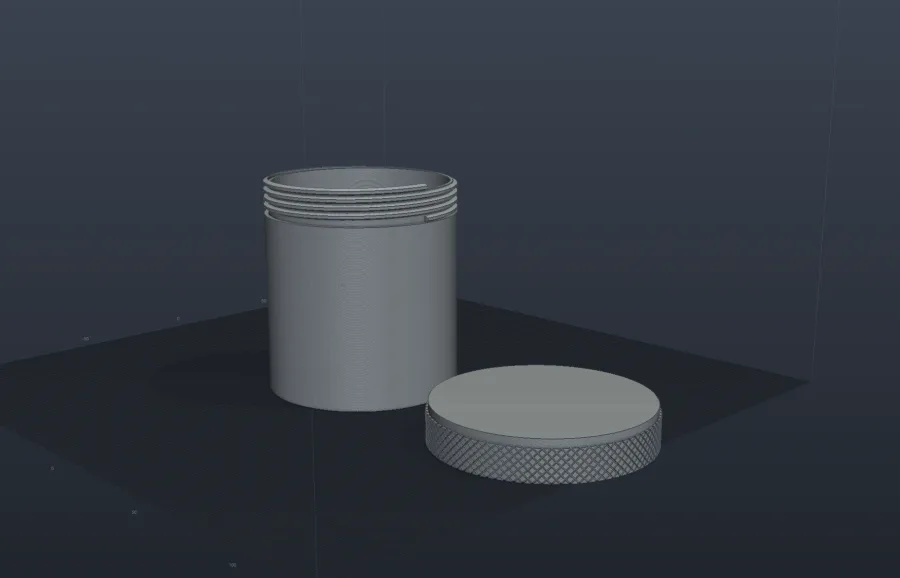
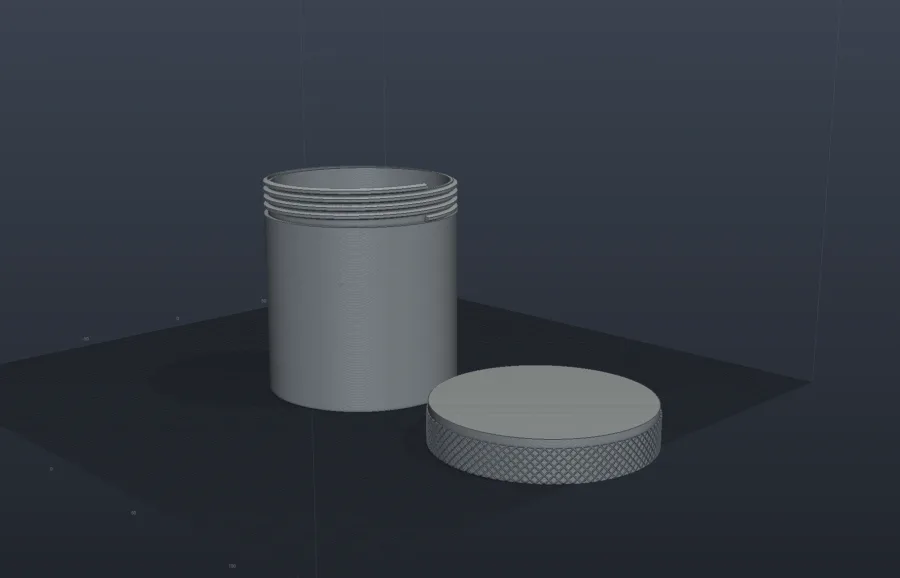
Die Formel stimmte für ein Material und verfehlte das andere
Der Wächter über den Galerieteilen prüft, was Volumen und Wasserdichtheit
nicht verraten: Zerfällt ein gezeigter Körper, wenn jemand am Parameter dreht?
Er hat sofort zwei Dinge gefunden, und das erste war meine Reparatur von
vorhin.

`=@durchmesser + 2 * @wand + 0.5` sah aus wie die Bauart und war zur Hälfte
Materialprofil. Der Deckel misst `durchmesser + 2*wand + 2*clearance`, und
`clearance` steht im Material: 0,25 bei PETG, 0,20 bei PLA. Gemessen hatte ich
mit PETG, der Wächter fährt den Standard — und dort zerfiel der Deckel in 542
Stücke. Eine Zahl aus dem Profil in einer Formel festzuschreiben ist derselbe
Fehler wie eine aus der Geometrie, nur besser getarnt: Sie stimmt an dem
Punkt, an dem sie entstand, und ist woanders leise falsch.

Das Spiel steht jetzt gar nicht mehr in der Formel. Die Rändelung wickelt eine
Winzigkeit **zu eng**, und das ist die sichere Richtung: Bei `mode="raised"`
wird vereinigt, ein Muster im Material verschmilzt, ein Muster daneben fällt
ab. Über 50 bis 120 und über beide Materialien: ein Körper.

Der zweite Fund gehört nicht mir. Das Gehäuse zerfällt unterhalb von 110 mm
Breite — fünf Stücke bei 90, drei bei 100, ab 110 einer: Seine vier
Gewindebuchsen sitzen auf festen Positionen und fallen aus der schmaler
werdenden Wand. Die Spanne im Test steht deshalb auf 110 und nicht auf 80, und
der Kommentar daneben nennt die Messung. Ein Test, der die Grenze überdeckte,
verspräche eine Parametrik, die das Teil nicht hat; gemeldet ist sie an 3a.

Changed region(s): [[0.4978, 0.7474, 0.7467, 0.8408], [0.3733, 0.3426, 0.4044, 0.3737]]

diff --git a/website/fr/index.html b/website/fr/index.html
@@ -527,7 +527,7 @@
           <figcaption><b>Boîtier électronique</b> Inserts filetés dans les coins, passe-câble, nervures de renfort — et un couvercle qui s’encliquette. Douze étapes, 79 134 triangles.</figcaption>
         </figure>
         <figure>
-          <img src="../bilder/galerie-schraubdose.webp?v=ede13524" width="900" height="578" loading="lazy"
+          <img src="../bilder/galerie-schraubdose.webp?v=b4b58f39" width="900" height="578" loading="lazy"
                alt="Un pot cylindrique avec un filetage extérieur imprimé sur le col et, à côté, le couvercle vissant à bord moleté">
           <figcaption><b>Pot à couvercle vissant</b> Le filetage du col et celui du couvercle viennent du même pas, et le jeu entre les deux du profil de matériau. Vous posez le couvercle&nbsp;: il tient.</figcaption>
         </figure>

diff --git a/website/it/index.html b/website/it/index.html
@@ -524,7 +524,7 @@
           <figcaption><b>Custodia per elettronica</b> Boccole filettate negli angoli, passacavo, nervature di rinforzo — e un coperchio che scatta in sede. Dodici passi, 79 134 triangoli.</figcaption>
         </figure>
         <figure>
-          <img src="../bilder/galerie-schraubdose.webp?v=ede13524" width="900" height="578" loading="lazy"
+          <img src="../bilder/galerie-schraubdose.webp?v=b4b58f39" width="900" height="578" loading="lazy"
                alt="Un barattolo cilindrico con filettatura esterna stampata sul collo e, accanto, il coperchio a vite con bordo zigrinato">
           <figcaption><b>Barattolo a vite</b> La filettatura del collo e quella del coperchio nascono dallo stesso passo, il gioco fra le due dal profilo del materiale. Metti il coperchio e tiene.</figcaption>
         </figure>

diff --git a/website/en/index.html b/website/en/index.html
@@ -519,7 +519,7 @@
           <figcaption><b>Electronics enclosure</b> Threaded inserts in the corners, a cable gland, stiffening ribs — and a lid that snaps on. Twelve steps, 79,134 triangles.</figcaption>
         </figure>
         <figure>
-          <img src="../bilder/galerie-schraubdose.webp?v=ede13524" width="900" height="578" loading="lazy"
+          <img src="../bilder/galerie-schraubdose.webp?v=b4b58f39" width="900" height="578" loading="lazy"
                alt="A cylindrical storage jar with a printed external thread on its neck, the matching screw lid with a knurled rim beside it">
           <figcaption><b>Storage jar</b> The thread on the neck and the one in the lid come from the same pitch, the clearance between them from the material profile. Put the lid on and it sits.</figcaption>
         </figure>

diff --git a/website/es/index.html b/website/es/index.html
@@ -524,7 +524,7 @@
           <figcaption><b>Caja para electrónica</b> Casquillos roscados en las esquinas, pasacables, nervios de refuerzo — y una tapa que encaja a presión. Doce pasos, 79 134 triángulos.</figcaption>
         </figure>
         <figure>
-          <img src="../bilder/galerie-schraubdose.webp?v=ede13524" width="900" height="578" loading="lazy"
+          <img src="../bilder/galerie-schraubdose.webp?v=b4b58f39" width="900" height="578" loading="lazy"
                alt="Un bote cilíndrico con rosca exterior impresa en el cuello y, al lado, la tapa roscada con el borde moleteado">
           <figcaption><b>Bote con tapa roscada</b> La rosca del cuello y la de la tapa salen del mismo paso, y la holgura entre ambas del perfil de material. Pones la tapa y ajusta.</figcaption>
         </figure>

diff --git a/website/pt/index.html b/website/pt/index.html
@@ -523,7 +523,7 @@
           <figcaption><b>Caixa para eletrónica</b> Casquilhos roscados nos cantos, bucim, nervuras de reforço — e uma tampa que encaixa. Doze passos, 79 134 triângulos.</figcaption>
         </figure>
         <figure>
-          <img src="../bilder/galerie-schraubdose.webp?v=ede13524" width="900" height="578" loading="lazy"
+          <img src="../bilder/galerie-schraubdose.webp?v=b4b58f39" width="900" height="578" loading="lazy"
                alt="Um frasco cilíndrico com rosca exterior impressa no gargalo e, ao lado, a tampa roscada de bordo serrilhado">
           <figcaption><b>Frasco de tampa roscada</b> A rosca do gargalo e a da tampa saem do mesmo passo, e a folga entre as duas do perfil do material. Põe a tampa e ela assenta.</figcaption>
         </figure>

diff --git a/website/index.html b/website/index.html
@@ -529,7 +529,7 @@
           einrastet. Zwölf Schritte, 79 134 Dreiecke.</figcaption>
         </figure>
         <figure>
-          <img src="bilder/galerie-schraubdose.webp?v=ede13524" width="900" height="578" loading="lazy"
+          <img src="bilder/galerie-schraubdose.webp?v=b4b58f39" width="900" height="578" loading="lazy"
                alt="Eine zylindrische Vorratsdose mit gedrucktem Außengewinde am Hals, daneben der passende Schraubdeckel mit gerändeltem Rand">
           <figcaption><b>Vorratsdose</b> Das Gewinde am Hals und das im Deckel
           kommen aus derselben Steigung, das Spiel dazwischen aus dem

diff --git a/tests/test_website.py b/tests/test_website.py
@@ -1973,3 +1973,86 @@ def test_the_roll_holder_stays_in_one_piece_across_its_range() -> None:
                 f"{breite:.0f} mm: {objekt.name} zerfällt in {stuecke} Stücke — "
                 "eine feste Zahl wandert beim Parameterzug nicht mit"
             )
+
+
+#: Die Galerieteile und der Parameter, an dem ein Kunde zuerst dreht.
+#:
+#: Die Spanne geht über das hinaus, was auf der Seite steht: Ein Rezept aus der
+#: Börse landet in einem fremden Projekt, und dort setzt jemand den Wert von
+#: Hand. Was nur im gezeigten Punkt hält, hält nicht.
+GALERIETEILE = (
+    # **110 und nicht 80, und das ist eine Messung, keine Bequemlichkeit.**
+    # Das Gehäuse zerfällt unterhalb von 110 mm: seine vier Gewindebuchsen
+    # sitzen auf festen Positionen und fallen aus der schmaler werdenden
+    # Wand — 5 Stücke bei 90, 3 bei 100, ab 110 einer. Nach oben hält es.
+    # Die untere Grenze ist an 3a gemeldet; sie gehört zum Schaustück und
+    # nicht zu diesem Test, und ein Test, der sie überdeckte, verspräche
+    # eine Parametrik, die das Teil nicht hat.
+    ("gehaeuse", "breite", (110.0, 120.0, 200.0)),
+    ("schraubdose", "durchmesser", (50.0, 75.0, 120.0)),
+    ("lochwandhalter", "breite", (80.0, 120.0, 200.0)),
+)
+
+
+@pytest.mark.parametrize(
+    ("stem", "parameter", "werte"), GALERIETEILE, ids=[teil[0] for teil in GALERIETEILE]
+)
+def test_a_gallery_part_stays_in_one_piece_across_its_range(
+    stem: str, parameter: str, werte: tuple[float, ...]
+) -> None:
+    """Jeder gezeigte Körper bleibt **ein** Stück, über die ganze Spanne.
+
+    **Der Anlass ist der eigene Fehler.** In `schraubdose.p3d` stand
+    ``wrap_diameter`` als feste Zahl, einmal bei ⌀60 aus der Geometrie
+    abgelesen. Beim Zug auf ⌀75 wickelte die Rändelung weiter um den Zylinder
+    von gestern, traf den Deckel nicht mehr und lag als **553 lose Stücke**
+    daneben — wasserdicht, plausibles Volumen, kein einziger Befund.
+
+    Auf dem Galeriebild stand ein glatter Deckel, und niemand hat es gesehen:
+    Ein zerbrochener Deckel wäre aufgefallen, ein unvollständiger nicht. Genau
+    das macht die Teilezahl zum billigsten Wächter — sie verrät einen
+    zerfallenen Körper dort, wo Volumen und Wasserdichtheit schweigen.
+
+    Geprüft wird auch die **Zahl** der Körper: Verschluckt eine Boolesche
+    Operation einen, sinkt sie, und ein fehlendes Teil fällt auf einem Bild
+    ebenso wenig auf wie ein unvollständiges.
+    """
+    import dataclasses
+
+    from app.core.bootstrap import load_operations
+    from app.core.knowledge import profiles
+    from app.core.scene import evaluate
+    from app.core.scene.project import load
+
+    load_operations()
+    ziel = Path(__file__).resolve().parent.parent / "website" / "teile" / f"{stem}.p3d"
+    assert ziel.is_file(), f"das Galerieteil fehlt: {ziel}"
+
+    project = load(ziel)
+    document = project.document
+    profile = profiles.make_profile()
+    assert parameter in document.parameters, (
+        f"{stem}: der Parameter „{parameter}“ steht nicht mehr im Rezept — "
+        "dann prüft dieser Test eine Spanne, die es nicht gibt"
+    )
+
+    erwartet: int | None = None
+    for wert in werte:
+        document.parameters[parameter] = dataclasses.replace(
+            document.parameters[parameter], value=wert
+        )
+        result = evaluate(document, profile)
+        koerper = list(result.scene.objects.values())
+        if erwartet is None:
+            erwartet = len(koerper)
+            assert erwartet > 0, f"{stem}: die Auswertung liefert gar keinen Körper"
+        assert len(koerper) == erwartet, (
+            f"{stem} bei {parameter}={wert:.0f}: {len(koerper)} Körper statt {erwartet} — "
+            "eine Boolesche Operation hat einen verschluckt"
+        )
+        for objekt in koerper:
+            stuecke = int(getattr(objekt.mesh, "component_count", 1) or 1)
+            assert stuecke == 1, (
+                f"{stem} bei {parameter}={wert:.0f}: {objekt.name} zerfällt in "
+                f"{stuecke} Stücke — eine feste Zahl wandert beim Parameterzug nicht mit"
+            )
